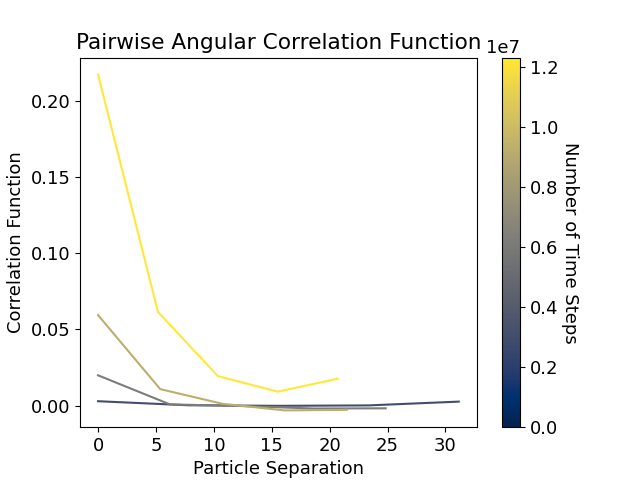
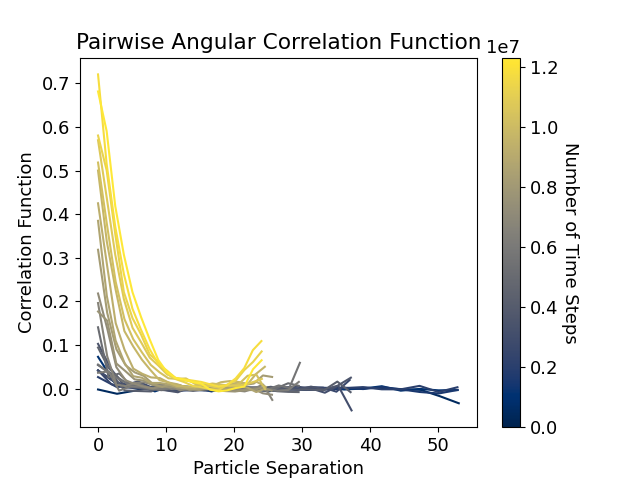
correlation function calculation comparison

diff --git a/Phase_Structure/Nunchucks/Fixed_Rigidity/correlation_plot_slow.py b/Phase_Structure/Nunchucks/Fixed_Rigidity/correlation_plot_slow.py
@@ -6,8 +6,8 @@ from scipy.ndimage import uniform_filter1d  # for rolling average
 from phase_plot import vol_frac
 
 FILE_ROOT = "output_T_0.5_time_"  # two underscores to match typo in previous code
-SAMPLING_FREQ = 100  # only samples one in X files (must be integer)
-SEPARATION_BIN_NUM = 5  # number of bins for radius dependance pair-wise correlation
+SAMPLING_FREQ = 20  # only samples one in X files (must be integer)
+SEPARATION_BIN_NUM = 20  # number of bins for radius dependance pair-wise correlation
 
 plt.rcParams.update({"font.size": 13})  # for figures to go into latex at halfwidth
 
@@ -145,7 +145,6 @@ def correlation_func(data, box_dim):
 
     angle_array = eval_angle_array(data, box_dim)
     max_separation = np.max(angle_array[:, :, 0])
-    print(max_separation, np.linalg.norm(box_dim))
 
     bin_width = max_separation / SEPARATION_BIN_NUM
     separation_bins = np.linspace(0, max_separation, SEPARATION_BIN_NUM, endpoint=False)

diff --git a/Phase_Structure/Nunchucks/Fixed_Rigidity/correlation_plot_fast.py b/Phase_Structure/Nunchucks/Fixed_Rigidity/correlation_plot_fast.py
@@ -264,5 +264,5 @@ cbar.ax.set_ylabel("Number of Time Steps", rotation=270, labelpad=15)
 plt.title("Pairwise Angular Correlation Function")
 plt.xlabel("Particle Separation")
 plt.ylabel("Correlation Function")
-plt.savefig("correlation_func.png")
+plt.savefig("correlation_func_fast.png")
 plt.show()
